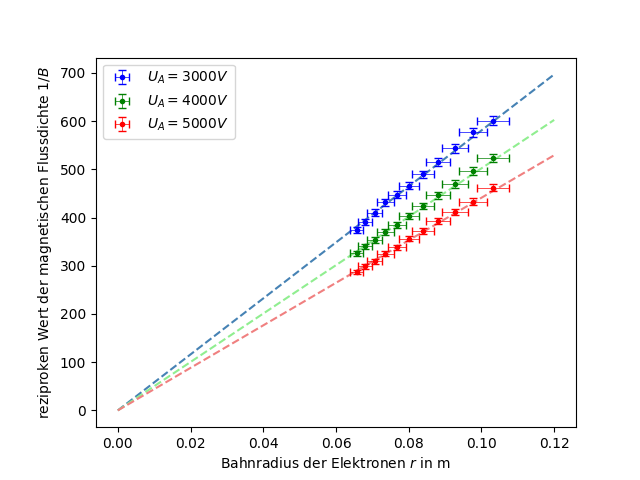
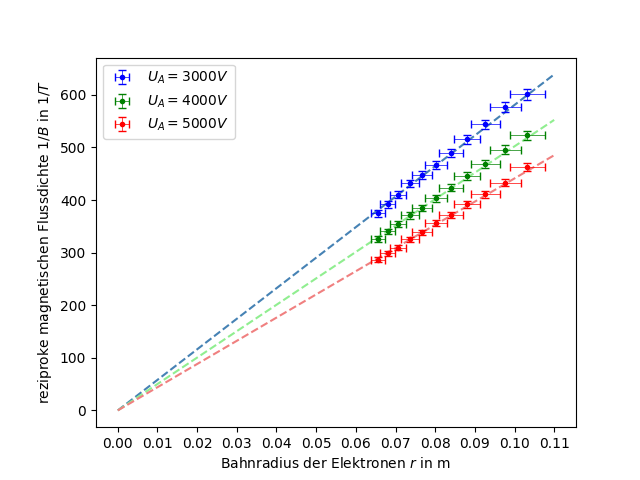
increased search range for auto x_ticks_number from (5-11) to (5-12)
- updated E12_e plot in readme

diff --git a/IMP_utils_py/physics/plotting.py b/IMP_utils_py/physics/plotting.py
@@ -36,7 +36,7 @@ def read_data(data_path: str) -> pd.DataFrame:
     
     return data
 
-def get_best_divider(number: float, possible_divider: list) -> int:
+def get_best_divider(number: float, possible_divider: list = list(range(5,13))) -> int:
     """
     get best divider of a number out of a given list of possible divider
 
@@ -149,7 +149,7 @@ def errorbar_plot(data_path: str, graphic_path: str, x_column: Union[str, list],
     
     # number of ticks on x-axes
     if x_ticks_number == "auto":
-        x_ticks_number = get_best_divider(max_length, list(range(5,12)))
+        x_ticks_number = get_best_divider(max_length)
         logger.info(f"auto x_ticks_number = {x_ticks_number}")
     elif type(x_ticks_number) == int:
         # check if x_ticks_number >= 0
@@ -343,7 +343,7 @@ def residual_plot(data_path: str, graphic_path: str, x_column: str, x_error_colu
     
     # number of ticks on x-axes
     if x_ticks_number == "auto":
-        x_ticks_number = get_best_divider(max_length, list(range(5,12)))
+        x_ticks_number = get_best_divider(max_length)
         logger.info(f"auto x_ticks_number = {x_ticks_number}")
     elif type(x_ticks_number) == int:
         # check if x_ticks_number >= 0

diff --git a/readme_files/plotting_examples.md b/readme_files/plotting_examples.md
@@ -125,9 +125,9 @@ ERRORBAR_PLOT_Y_COLUMN = ["1/B_3000", "1/B_4000", "1/B_5000"]
 ERRORBAR_PLOT_Y_ERROR_COLUMN = ["u_1/B_3000", "u_1/B_4000", "u_1/B_5000"]
 ERRORBAR_PLOT_TITLE = ""
 ERRORBAR_PLOT_XLABEL = "Bahnradius der Elektronen $r$ in m"
-ERRORBAR_PLOT_YLABEL = "reziproken Wert der magnetischen Flussdichte $1/B$"
+ERRORBAR_PLOT_YLABEL = "reziproke magnetischen Flussdichte $1/B$ in $1/T$"
 ERRORBAR_PLOT_XTICKS_NUMBER = "auto"
-ERRORBAR_PLOT_MAX_XTICKS = 0.12
+ERRORBAR_PLOT_MAX_XTICKS = "auto"
 ERRORBAR_PLOT_PLOTLABELS = ["$U_A = 3000 V$", "$U_A = 4000 V$", "$U_A = 5000 V$"]
 ERRORBAR_PLOT_MODEL = "linear_zero"
 ERRORBAR_PLOT_EXTRA_LOG = False
